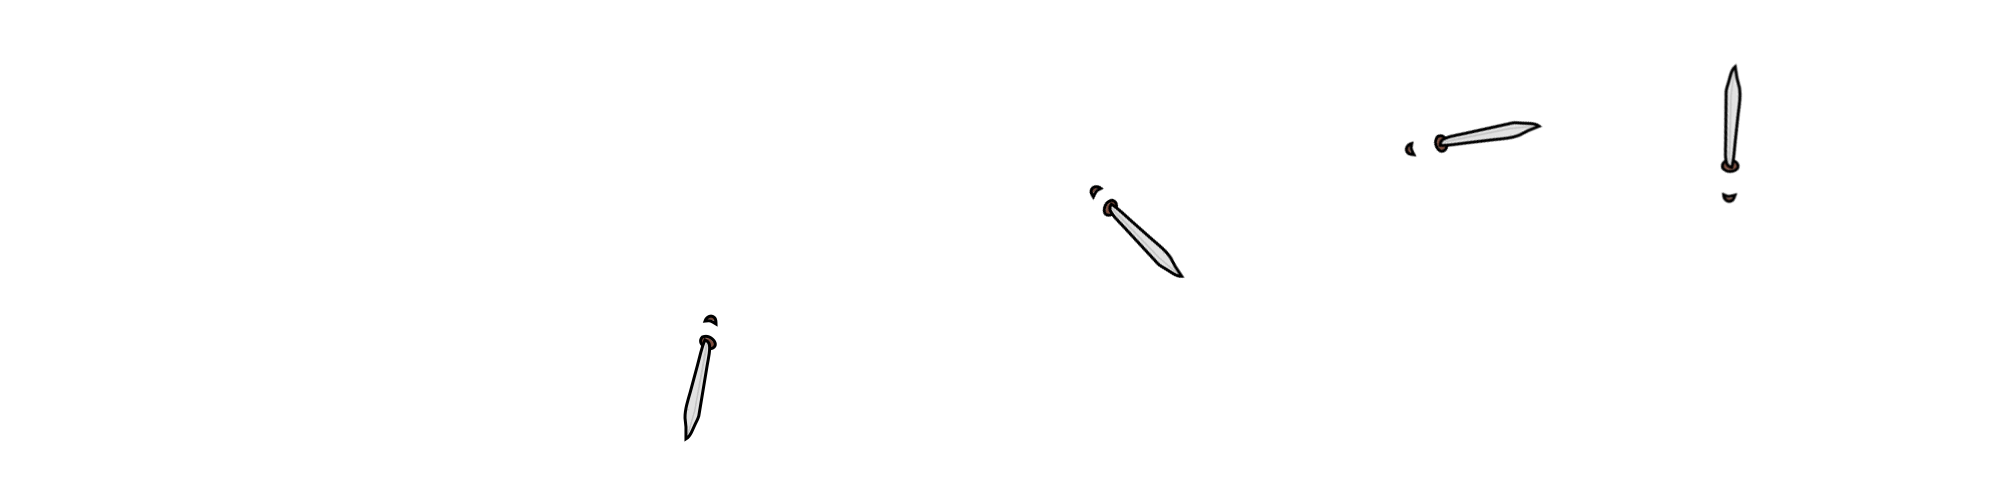
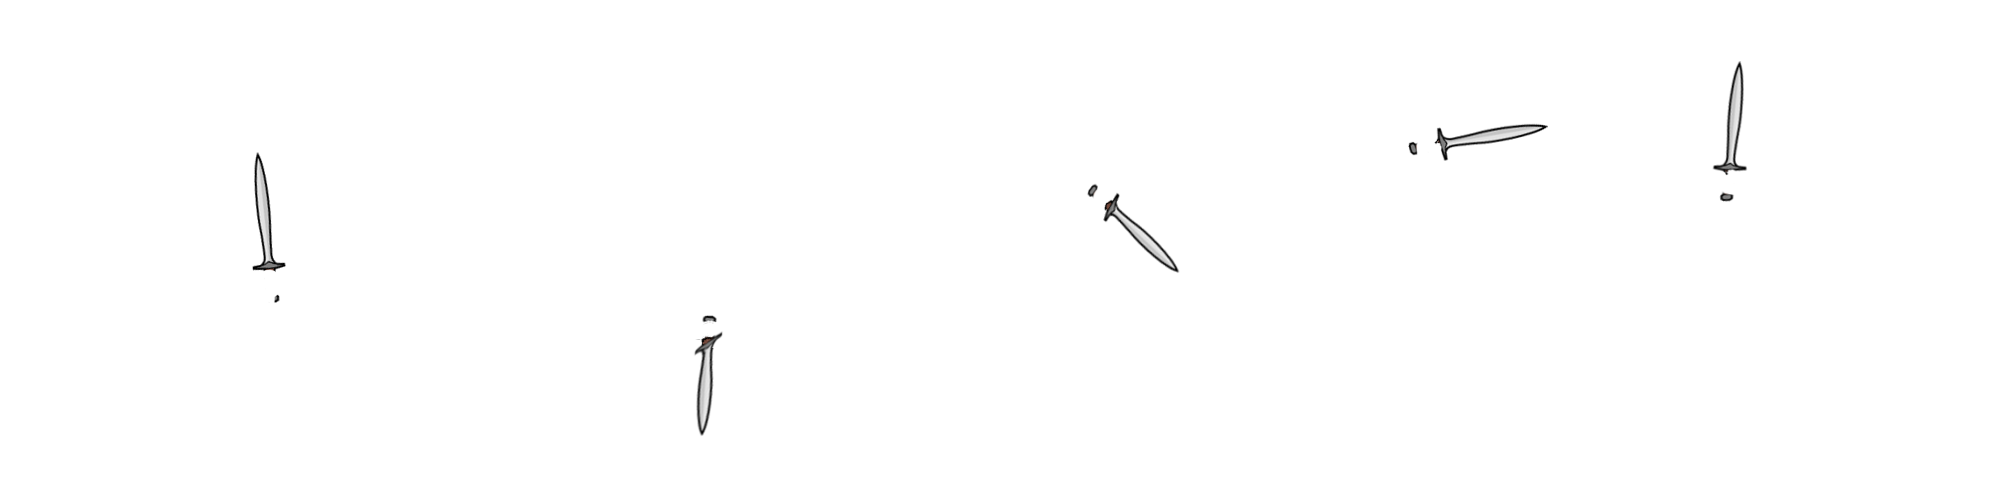
Add equipment bar and new sword

diff --git a/jni/src/EquipmentButton.cpp b/jni/src/EquipmentButton.cpp
@@ -1,0 +1,80 @@
+//
+// Created by cvalenza on 9/18/16.
+//
+
+#include "EquipmentButton.h"
+#include "res.h"
+
+void EquipmentButton::_init()
+{
+	view->setPosition(game->getSize() / 2);
+
+	button = new Sprite;
+	button->setResAnim(res::ui.getResAnim("equip_quickslot"));
+	button->setAnchor(0.0f, 0.5f);
+	button->attachTo(view);
+	button->addEventListener(TouchEvent::TOUCH_DOWN, CLOSURE(this, &EquipmentButton::onEvent));
+	button->addEventListener(TouchEvent::TOUCH_UP, CLOSURE(this, &EquipmentButton::onEvent));
+
+	equip_sprite = new Sprite;
+	equip_sprite_str = "sword_equipmenu";
+	equip_sprite->setResAnim(res::ui.getResAnim(equip_sprite_str));
+	equip_sprite->setAnchor(-0.27f, 0.5f);
+	equip_sprite->attachTo(view);
+	equip_sprite->addEventListener(TouchEvent::TOUCH_DOWN, CLOSURE(this, &EquipmentButton::onEvent));
+	equip_sprite->addEventListener(TouchEvent::TOUCH_UP, CLOSURE(this, &EquipmentButton::onEvent));
+
+	view->setScale(1.5f);
+}
+
+void EquipmentButton::setX(float x)
+{
+	view->setX(x);
+}
+
+void EquipmentButton::setY(float y)
+{
+	view->setY(y);
+}
+
+float EquipmentButton::getWidth()
+{
+	return button->getWidth();
+}
+
+float EquipmentButton::getHeight()
+{
+	return button->getHeight();
+}
+
+EquipmentButton::EquipmentButton() : pressed(false)
+{
+	equipment = "";
+	equip_sprite_str = "";
+}
+
+void EquipmentButton::setEquipmentMenu(std::string equip)
+{
+	equip_sprite_str = equip;
+	equip_sprite->setResAnim(res::ui.getResAnim(equip_sprite_str));
+}
+void EquipmentButton::setEquipment(std::string equip)
+{
+	equipment = equip;
+}
+
+void EquipmentButton::onEvent(Event* ev)
+{
+	TouchEvent* te = safeCast<TouchEvent*>(ev);
+
+	if (te->type == TouchEvent::TOUCH_DOWN) {
+		button->setColor(Color::Red);
+		pressed = true;
+	}
+
+	if (te->type == TouchEvent::TOUCH_UP) {
+		game->setPlayerRHWeapon(equipment);
+		button->setColor(Color::White);
+		pressed = false;
+	}
+}

diff --git a/jni/src/Player.cpp b/jni/src/Player.cpp
@@ -14,15 +14,22 @@ void Player::_init()
 
 	view->setPosition(game->getSize() / 2);
 	character = new Sprite;
-	character->setResAnim(res::ui.getResAnim("player"));
+	torso = "player";
+	character->setResAnim(res::ui.getResAnim(torso));
 	character->attachTo(view);
-	character->setAnchor(0.5f, 0.65f);
+	character->setAnchor(0.5f, 0.62f);
 
 	weapon = new Sprite;
-	weapon->setResAnim(res::ui.getResAnim("sword"));
+	rh_weapon = "sword";
+	weapon->setResAnim(res::ui.getResAnim(rh_weapon));
 	weapon->attachTo(character);
 
 	changeAnim("stand", 1);
+}
+
+void Player::setRHWeapon(std::string weap)
+{
+	rh_weapon = weap;
 }
 
 void Player::move(timeMS dt)
@@ -68,11 +75,11 @@ void Player::move(timeMS dt)
 void Player::changeAnim(std::string action, int ms)
 {
 	if (action == "stand") {
-		character->addTween(TweenAnim(res::ui.getResAnim("player"), 0, 0), ms);
-		weapon->addTween(TweenAnim(res::ui.getResAnim("sword"), 0, 0), ms);
+		character->addTween(TweenAnim(res::ui.getResAnim(torso), 0, 0), ms);
+		weapon->addTween(TweenAnim(res::ui.getResAnim(rh_weapon), 0, 0), ms);
 	} else if (action, "swing") {
-		character->addTween(TweenAnim(res::ui.getResAnim("player"), 1, 4), ms);
-		weapon->addTween(TweenAnim(res::ui.getResAnim("sword"), 1, 4), ms);
+		character->addTween(TweenAnim(res::ui.getResAnim(torso), 1, 4), ms);
+		weapon->addTween(TweenAnim(res::ui.getResAnim(rh_weapon), 1, 4), ms);
 	}
 }
 

diff --git a/jni/src/Game.cpp b/jni/src/Game.cpp
@@ -4,6 +4,7 @@
 
 #include "Game.h"
 #include "Joystick.h"
+#include "EquipmentButton.h"
 #include "Player.h"
 #include "res.h"
 
@@ -30,6 +31,7 @@ void Game::init()
 	// create the player
 	player = new Player;
 	player->init(this);
+	player->setRHWeapon("sword");
 
 	// create joystick
 	move = new Joystick;
@@ -40,6 +42,25 @@ void Game::init()
 	look->attachTo(this);
 	look->setY(getHeight() * 0.2f);
 	look->setX(getWidth() - look->getWidth());
+
+	slot1 = new EquipmentButton;
+	slot1->init(this);
+	slot1->setEquipment("sword");
+	slot1->setEquipmentMenu("sword_equipmenu");
+	slot1->setY(getHeight() - slot1->getHeight());
+	slot1->setX(getWidth() / 2 - slot1->getWidth() * 1.5);
+
+	slot2 = new EquipmentButton;
+	slot2->init(this);
+	slot2->setEquipment("alt_sword");
+	slot2->setEquipmentMenu("alt_sword_equipmenu");
+	slot2->setY(getHeight() - slot2->getHeight());
+	slot2->setX(getWidth() / 2);
+}
+
+void Game::setPlayerRHWeapon(std::string weap)
+{
+	player->setRHWeapon(weap);
 }
 
 void Game::doUpdate(const UpdateState& us)

diff --git a/jni/src/EquipmentButton.h b/jni/src/EquipmentButton.h
@@ -1,0 +1,35 @@
+//
+// Created by cvalenza on 9/18/16.
+//
+
+#ifndef OXYGINE_HW_EQUIPMENTBUTTON_H
+#define OXYGINE_HW_EQUIPMENTBUTTON_H
+
+#include "Unit.h"
+#include "Game.h"
+
+using namespace oxygine;
+
+DECLARE_SMART(EquipmentButton, spEquipmentButton);
+
+class EquipmentButton : public Unit {
+	private:
+		std::string equipment;
+		std::string equip_sprite_str;
+		bool pressed;
+		void onEvent(Event *ev);
+		spSprite button;
+		spSprite equip_sprite;
+	public:
+		EquipmentButton();
+		void setEquipment(std::string equip);
+		void setEquipmentMenu(std::string equip);
+		bool getStatus();
+		void _init();
+		void setX(float x);
+		void setY(float y);
+		float getWidth();
+		float getHeight();
+};
+
+#endif //OXYGINE_HW_EQUIPMENTBUTTON_H

diff --git a/jni/src/Player.h b/jni/src/Player.h
@@ -13,6 +13,11 @@ DECLARE_SMART(Player, spPlayer);
 class Player : public Unit {
 	private:
 		std::chrono::milliseconds atk_anim_timer;
+		std::string torso;
+		std::string rh_weapon;
+		std::string lh_weapon;
+		std::string legs;
+
 		void move(timeMS dt);
 		void attack();
 		void swingAnimation(int time_ms);
@@ -24,6 +29,7 @@ class Player : public Unit {
 		spSprite character;
 		spSprite weapon;
 	public:
+		void setRHWeapon(std::string weap);
 };
 
 #endif //OXYGINE_HW_PLAYER_H

diff --git a/jni/src/Game.h b/jni/src/Game.h
@@ -11,6 +11,7 @@ using namespace oxygine;
 
 DECLARE_SMART(Player, spPlayer);
 DECLARE_SMART(Joystick, spJoystick);
+DECLARE_SMART(EquipmentButton, spEquipmentButton);
 DECLARE_SMART(Game, spGame);
 
 class Game : public Actor {
@@ -21,8 +22,11 @@ class Game : public Actor {
 		spPlayer player;
 		spJoystick move;
 		spJoystick look;
+		spEquipmentButton slot1;
+		spEquipmentButton slot2;
 	public:
 		Game();
+		void setPlayerRHWeapon(std::string weap);
 		void init();
 };
 
